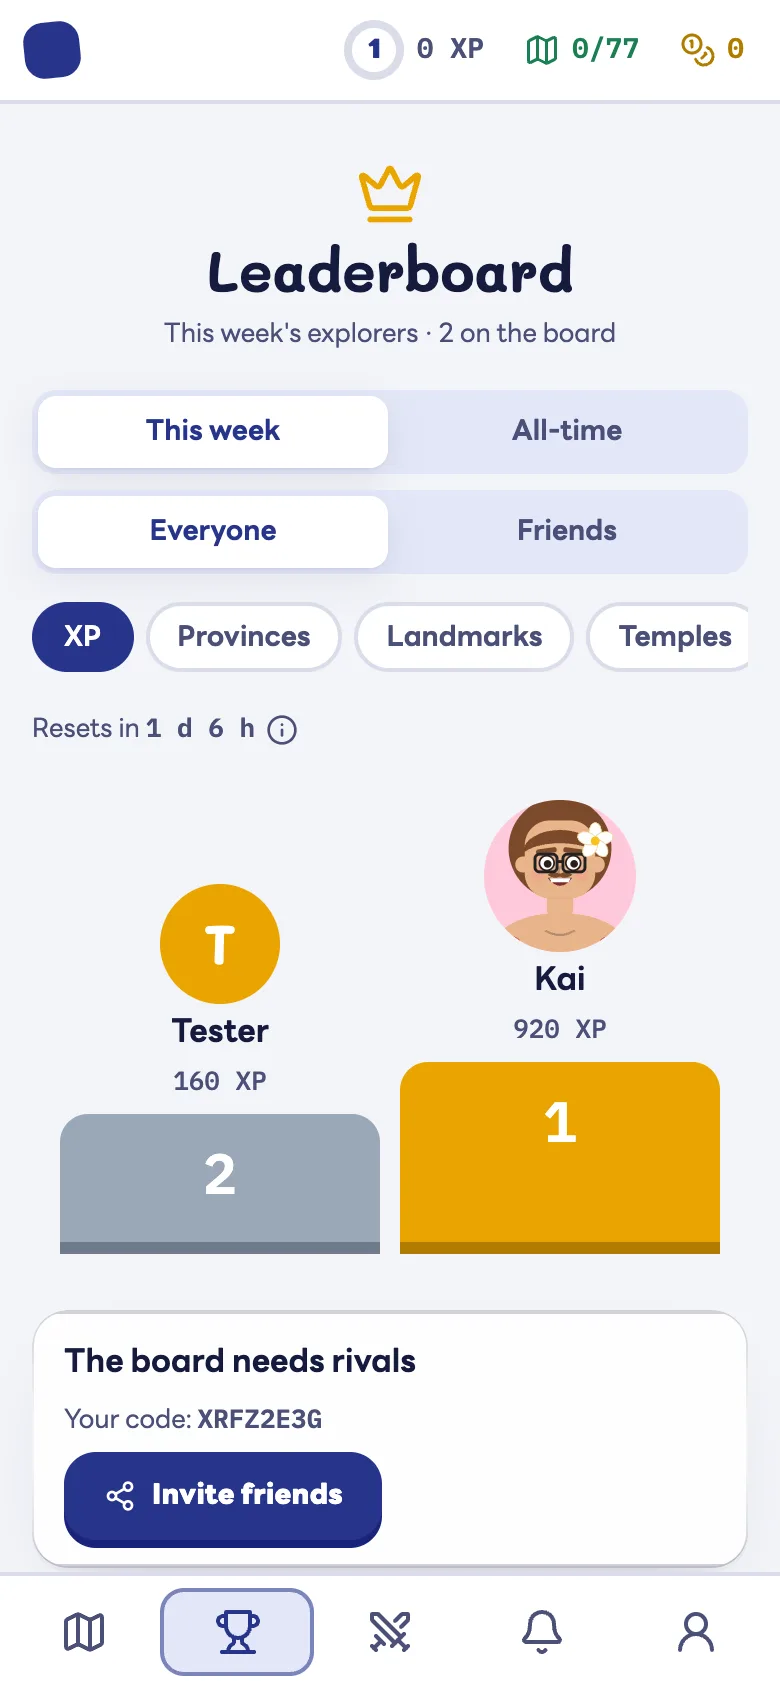
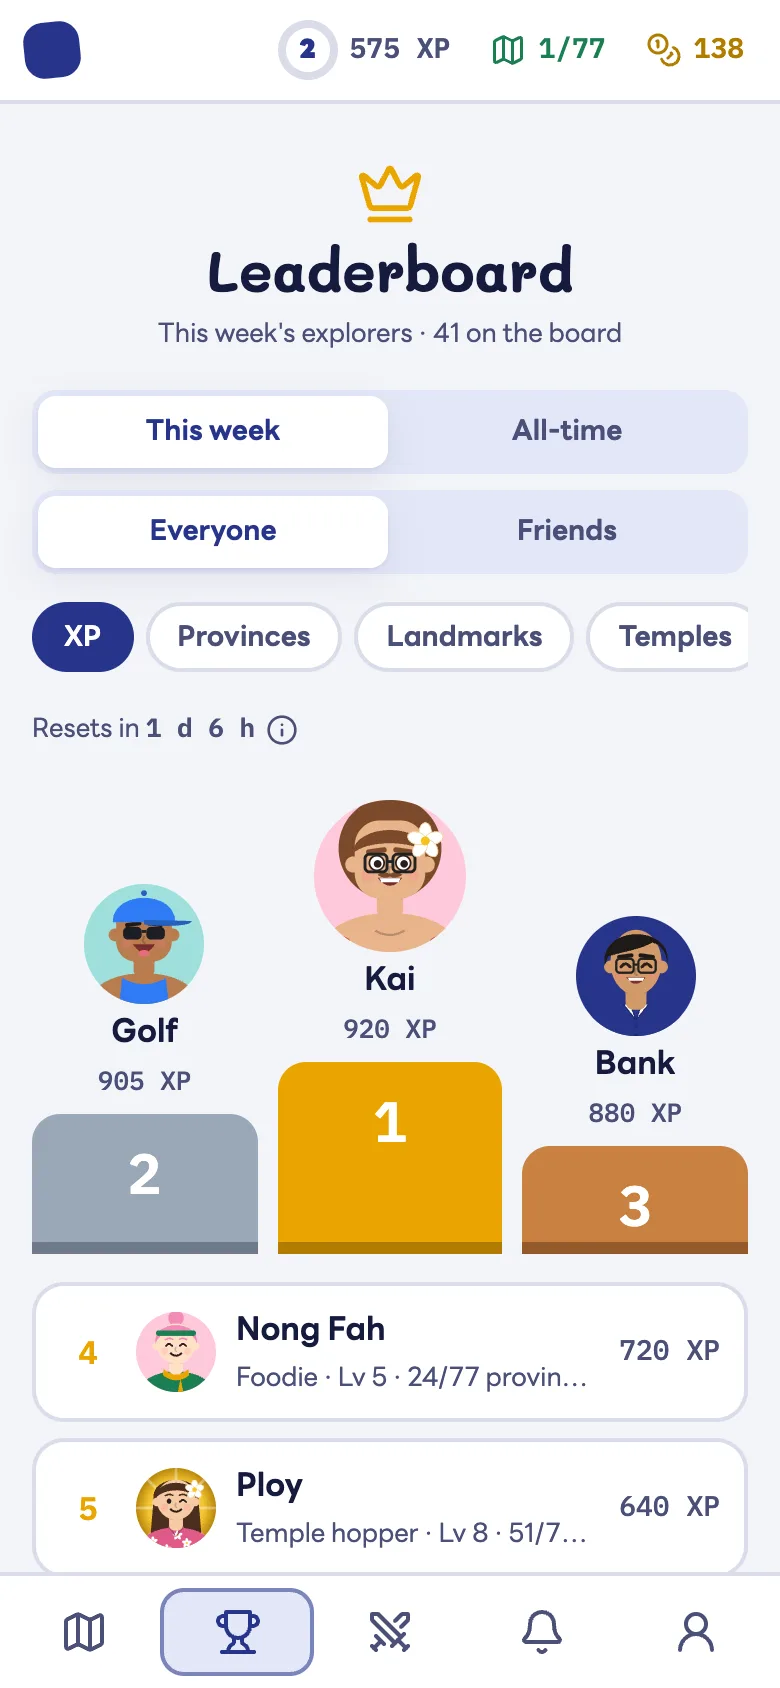
feat: landing screenshots retaken in demo mode (busy leaderboard and feed, detour time options)

diff --git a/web/index.html b/web/index.html
@@ -33,7 +33,7 @@
           </div>
         </div>
         <figure class="phone hero-phone">
-          <img src="/landing/map.webp" width="390" height="844" alt="Giggles Maps: a map of local stops and a Where to? search" />
+          <img src="/landing/choose.webp" width="390" height="844" alt="Giggles Maps planning a trip to Chatuchak Market: Quick +20 min, Relaxed +45 min and Day out +2 h, each with its stops" />
         </figure>
       </section>
 
@@ -74,6 +74,13 @@
             <p>A weekly board for XP, provinces and temples. Fresh start every Monday.</p>
           </div>
           <figure class="phone"><img src="/landing/board.webp" width="390" height="844" loading="lazy" alt="Weekly leaderboard podium" /></figure>
+        </article>
+        <article class="feature">
+          <div class="feature-copy">
+            <h3 class="c-indigo">Cheer your friends on.</h3>
+            <p>See where your friends stamped, react, and leave a comment.</p>
+          </div>
+          <figure class="phone"><img src="/landing/feed.webp" width="390" height="844" loading="lazy" alt="Feed with friends' stamps and reactions" /></figure>
         </article>
         <article class="feature">
           <div class="feature-copy">
